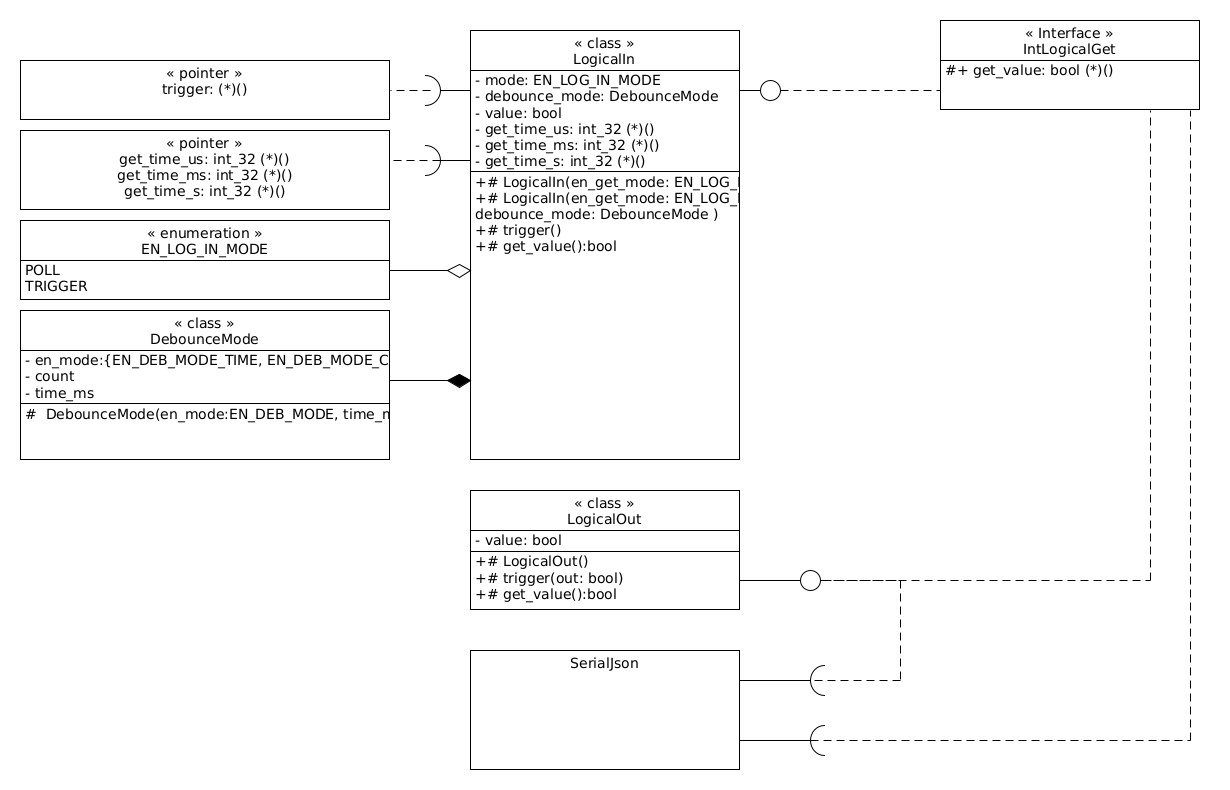
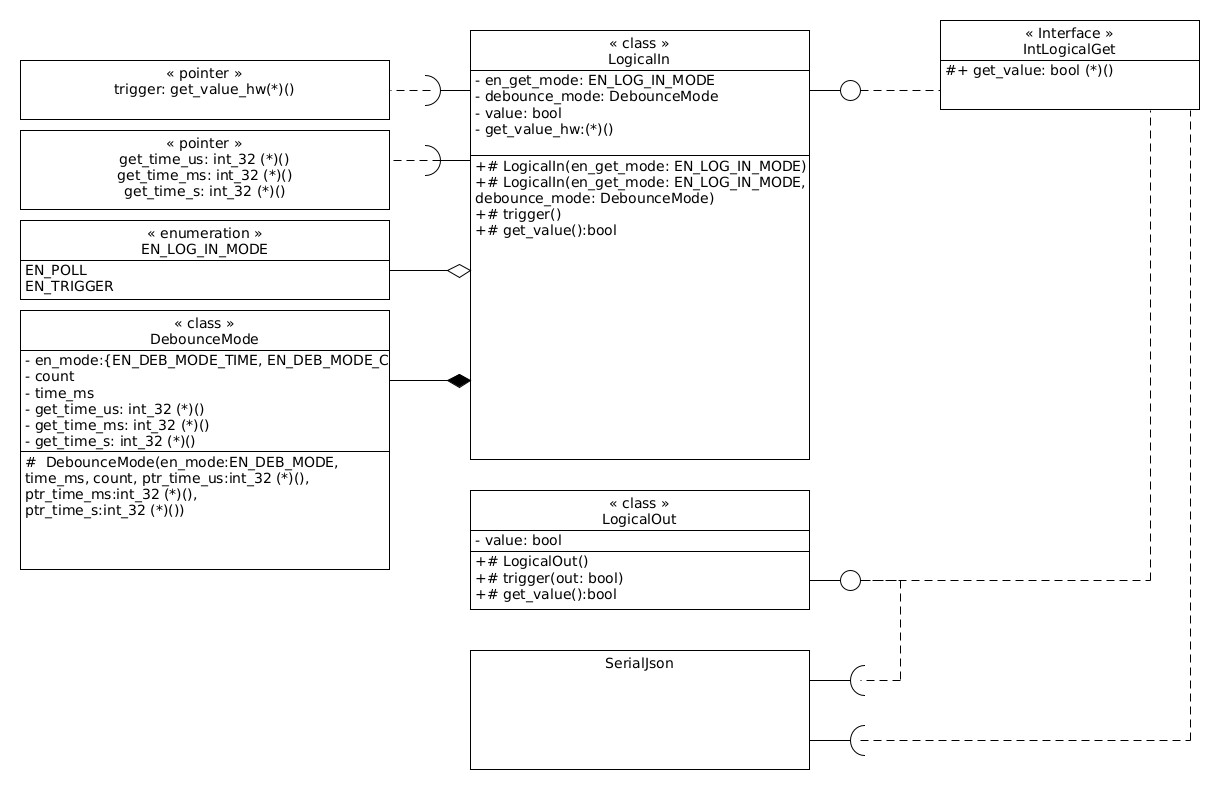
bugfix common makefile

diff --git a/src/debounce/debounce_test.cpp b/src/debounce/debounce_test.cpp
@@ -7,24 +7,39 @@
 // Test the initial state of the Debounce object
 void testInitialState() {
     Debounce debounce(EN_DEB_MODE_COUNT, 100, 10, nullptr);
-    ASSERT_EQUAL(EN_DEB_STATE_NONE, debounce.get_state());
+    ASSERT_EQUAL(EN_DEB_STATE_STOP, debounce.get_state());
 }
 
 // Test trigger in count mode
 void testTriggerCountMode_3() {
     Debounce debounce(EN_DEB_MODE_COUNT, 100, 3, nullptr);
-    ASSERT_EQUAL(EN_DEB_STATE_START, debounce.trigger());
-    ASSERT_EQUAL(EN_DEB_STATE_START, debounce.get_state());
-    ASSERT_EQUAL(EN_DEB_STATE_START, debounce.trigger());
-    ASSERT_EQUAL(EN_DEB_STATE_START, debounce.trigger());
+    ASSERT_EQUAL(EN_DEB_STATE_RUN, debounce.trigger());
+    ASSERT_EQUAL(EN_DEB_STATE_RUN, debounce.get_state());
+    ASSERT_EQUAL(EN_DEB_STATE_RUN, debounce.trigger());
+    ASSERT_EQUAL(EN_DEB_STATE_RUN, debounce.trigger());
     ASSERT_EQUAL(EN_DEB_STATE_READY, debounce.trigger());
 }
 
 // Test trigger in count mode
 void testTriggerCountMode_1() {
     Debounce debounce(EN_DEB_MODE_COUNT, 100, 1, nullptr);
-    ASSERT_EQUAL(EN_DEB_STATE_START, debounce.trigger());
-    ASSERT_EQUAL(EN_DEB_STATE_START, debounce.get_state());
+    ASSERT_EQUAL(EN_DEB_STATE_RUN, debounce.trigger());
+    ASSERT_EQUAL(EN_DEB_STATE_RUN, debounce.get_state());
+    ASSERT_EQUAL(EN_DEB_STATE_READY, debounce.trigger());
+}
+
+// Test trigger in count mode with reset
+void testTriggerCountMode_reset() {
+    Debounce debounce(EN_DEB_MODE_COUNT, 100, 3, nullptr);
+    ASSERT_EQUAL(EN_DEB_STATE_RUN, debounce.trigger());
+    ASSERT_EQUAL(EN_DEB_STATE_RUN, debounce.get_state());
+    ASSERT_EQUAL(EN_DEB_STATE_RUN, debounce.trigger());
+    debounce.reset();
+    ASSERT_EQUAL(EN_DEB_STATE_STOP, debounce.get_state());
+    ASSERT_EQUAL(EN_DEB_STATE_RUN, debounce.trigger());
+    ASSERT_EQUAL(EN_DEB_STATE_RUN, debounce.get_state());
+    ASSERT_EQUAL(EN_DEB_STATE_RUN, debounce.trigger());
+    ASSERT_EQUAL(EN_DEB_STATE_RUN, debounce.trigger());
     ASSERT_EQUAL(EN_DEB_STATE_READY, debounce.trigger());
 }
 
@@ -41,13 +56,13 @@ void testTriggerTimeMode() {
     Debounce debounce(EN_DEB_MODE_TIME, 100, 0, ptr_time_ms);
     // init simulated time
     m_u16_sim_time_ms = 1000;
-    ASSERT_EQUAL(EN_DEB_STATE_START, debounce.trigger());
-    ASSERT_EQUAL(EN_DEB_STATE_START, debounce.get_state());
+    ASSERT_EQUAL(EN_DEB_STATE_RUN, debounce.trigger());
+    ASSERT_EQUAL(EN_DEB_STATE_RUN, debounce.get_state());
     // Simulate passing time
     // Assuming we have a function to provide time
     // debounce.u16_time_idx_ms = 50;
     m_u16_sim_time_ms += 50;
-    ASSERT_EQUAL(EN_DEB_STATE_START, debounce.trigger());
+    ASSERT_EQUAL(EN_DEB_STATE_RUN, debounce.trigger());
     // debounce.u16_time_idx_ms = 100;
     m_u16_sim_time_ms += 50;
     ASSERT_EQUAL(EN_DEB_STATE_READY, debounce.trigger());
@@ -59,13 +74,13 @@ void testTriggerTimeMode_overflow() {
     Debounce debounce(EN_DEB_MODE_TIME, 100, 0, ptr_time_ms);
     // init simulated time
     m_u16_sim_time_ms = 65530;
-    ASSERT_EQUAL(EN_DEB_STATE_START, debounce.trigger());
-    ASSERT_EQUAL(EN_DEB_STATE_START, debounce.get_state());
+    ASSERT_EQUAL(EN_DEB_STATE_RUN, debounce.trigger());
+    ASSERT_EQUAL(EN_DEB_STATE_RUN, debounce.get_state());
     // Simulate passing time
     // Assuming we have a function to provide time
     // debounce.u16_time_idx_ms = 50;
     m_u16_sim_time_ms += 50;
-    ASSERT_EQUAL(EN_DEB_STATE_START, debounce.trigger());
+    ASSERT_EQUAL(EN_DEB_STATE_RUN, debounce.trigger());
     // debounce.u16_time_idx_ms = 100;
     m_u16_sim_time_ms += 50;
     ASSERT_EQUAL(EN_DEB_STATE_READY, debounce.trigger());
@@ -77,6 +92,7 @@ void runAllTests() {
     s.push_back(CUTE(testInitialState));
     s.push_back(CUTE(testTriggerCountMode_3));
     s.push_back(CUTE(testTriggerCountMode_1));
+    s.push_back(CUTE(testTriggerCountMode_reset));
     s.push_back(CUTE(testTriggerTimeMode));
     s.push_back(CUTE(testTriggerTimeMode_overflow));
 

diff --git a/src/logical_in/logical_in.cpp b/src/logical_in/logical_in.cpp
@@ -3,22 +3,30 @@
 /**
  * @brief Construct a new Logical In:: LogicalIn object
  *
- * @param en_get_mode
+ * @param en_get_mode   mode, poll or trigger
+ * @param get_value_hw  pointer to hardware function for reading the input
  */
 LogicalIn::LogicalIn(EN_LOG_IN_MODE en_get_mode,
                      uint16_t (*get_value_hw)(void))
 {
     this->init();
     this->get_value_hw=get_value_hw;
-    this->en_get_mode = en_get_mode;
+    this->en_read_mode = en_get_mode;
 }
 
+/**
+ * @brief Construct a new Logical In:: LogicalIn object with debouncing
+ *
+ * @param en_get_mode   mode, poll or trigger
+ * @param get_value_hw  pointer to hardware function for reading the input
+ * @param ptr_debounce  pointer to debounce object
+ */
 LogicalIn::LogicalIn(EN_LOG_IN_MODE en_get_mode,
                      uint16_t (*get_value_hw)(),
                      Debounce *ptr_debounce)
 {
     this->init();
-    this->en_get_mode = en_get_mode;
+    this->en_read_mode = en_get_mode;
     this->get_value_hw=get_value_hw;
     this->debounce = ptr_debounce;
 }
@@ -31,7 +39,7 @@ void LogicalIn::init()
 {
     this->debounce = nullptr;
     this->en_value = EN_VAL_NONE;
-    this->en_get_mode = EN_MODE_POLL;
+    this->en_read_mode = EN_MODE_POLL;
     this->get_value_hw = nullptr;
 }
 
@@ -53,16 +61,39 @@ void LogicalIn::trigger()
 {
     if (this->get_value_hw != nullptr)
     {
-        uint16_t u16_value = this->get_value_hw();
-        if (u16_value == 0)
-            this->en_value=EN_VAL_LOW;
-        else if (u16_value == 1)
-            this->en_value=EN_VAL_HIGH;
+        if (this->debounce != nullptr)
+        {
+            this->debounce->trigger();
+            if (this->debounce->get_state() == EN_DEB_STATE_READY)
+            {
+                this->en_value = this->read_input();
+            }
+        }
         else
-            this->en_value = EN_VAL_NONE;
+        {
+            this->en_value = this->read_input();
+        }
     }
     else
     {
         this->en_value = EN_VAL_NONE;
     }
+}
+
+/**
+ * @brief helper function to read input from the hardware and convert this in EN_LOG_IN_VALUE
+ *
+ * @return EN_LOG_IN_VALUE
+ */
+EN_LOG_IN_VALUE LogicalIn::read_input()
+{
+    uint16_t u16_value;
+    u16_value = this->get_value_hw();
+
+    if (u16_value == 0)
+        return EN_VAL_LOW;
+    else if (u16_value == 1)
+        return EN_VAL_HIGH;
+
+    return EN_VAL_NONE;
 }

diff --git a/src/logical_in/logical_in.hpp b/src/logical_in/logical_in.hpp
@@ -24,24 +24,36 @@ typedef enum
 }EN_LOG_IN_VALUE;
 
 /**
- * @brief class for handling inputs based on HIGH/LOW
+ * @brief class for handling one input based on HIGH/LOW value
  *
  */
 class LogicalIn
 {
     private:
+        //! store value
         EN_LOG_IN_VALUE en_value;
-        EN_LOG_IN_MODE  en_get_mode;
+        //! mode how the input shall read
+        EN_LOG_IN_MODE  en_read_mode;
+        //! debounce object, default nullptr
         Debounce        *debounce;
+        //! callback pointer for reading the input from hardware
         uint16_t (*get_value_hw) ();
+        //! init function, used from constructors
         void init();
+        //! read input and convert
+        EN_LOG_IN_VALUE read_input();
 
     public:
-        LogicalIn(EN_LOG_IN_MODE en_get_mode,
+        //! constructor without debounce object
+        LogicalIn(EN_LOG_IN_MODE en_read_mode,
                   uint16_t (*get_value_hw)(void));
-        LogicalIn(EN_LOG_IN_MODE en_get_mode,
+        //! constructor with debounce object
+        LogicalIn(EN_LOG_IN_MODE en_read_mode,
                   uint16_t (*get_value_hw)(void),
                   Debounce *ptr_debounce);
+        //! trigger function - this function is called from outside to read the input
+        //! the pointer can used for interrupt functions
         void trigger(void);
+        //! getter for stored value
         EN_LOG_IN_VALUE get_value();
 };

diff --git a/src/debounce/debounce.cpp b/src/debounce/debounce.cpp
@@ -7,7 +7,7 @@
 void Debounce::init(void)
 {
     this->en_deb_mode=EN_DEB_MODE_COUNT;
-    this->en_deb_state=EN_DEB_STATE_NONE;
+    this->en_deb_state=EN_DEB_STATE_STOP;
     this->u16_time_ms = 0;
     this->u16_count = 0;
     this->u16_count_idx = 0;
@@ -48,7 +48,7 @@ EN_DEB_STATE Debounce::trigger(void)
 {
     switch (this->en_deb_state)
     {
-        case EN_DEB_STATE_NONE:
+        case EN_DEB_STATE_STOP:
         case EN_DEB_STATE_READY:
         {
             if (this->en_deb_mode == EN_DEB_MODE_COUNT)
@@ -65,10 +65,10 @@ EN_DEB_STATE Debounce::trigger(void)
             {
                 break;
             }
-            this->en_deb_state = EN_DEB_STATE_START;
+            this->en_deb_state = EN_DEB_STATE_RUN;
             break;
         }
-        case EN_DEB_STATE_START:
+        case EN_DEB_STATE_RUN:
         {
             if (this->en_deb_mode == EN_DEB_MODE_COUNT)
             {
@@ -106,4 +106,13 @@ EN_DEB_STATE Debounce::trigger(void)
 EN_DEB_STATE Debounce::get_state()
 {
     return this->en_deb_state;
+}
+
+/**
+ * @brief function to reset the internal state to initial
+ *
+ */
+void Debounce::reset()
+{
+    this->en_deb_state = EN_DEB_STATE_STOP;
 }

diff --git a/src/debounce/debounce.hpp b/src/debounce/debounce.hpp
@@ -15,9 +15,9 @@ typedef enum
 
 {
     // no debouncing is running
-    EN_DEB_STATE_NONE,
+    EN_DEB_STATE_STOP,
     // debouncing is started
-    EN_DEB_STATE_START,
+    EN_DEB_STATE_RUN,
     // debouncing is ready
     EN_DEB_STATE_READY,
 }EN_DEB_STATE;
@@ -61,6 +61,9 @@ class Debounce
         // in EN_DEB_MODE_TIME the current time is measured
         EN_DEB_STATE trigger(void);
 
-        // returns debounce state EN_DEB_STATE
+        //! getter for debounce state EN_DEB_STATE
         EN_DEB_STATE get_state(void);
+
+        //! reset the internal state
+        void reset(void);
 };
